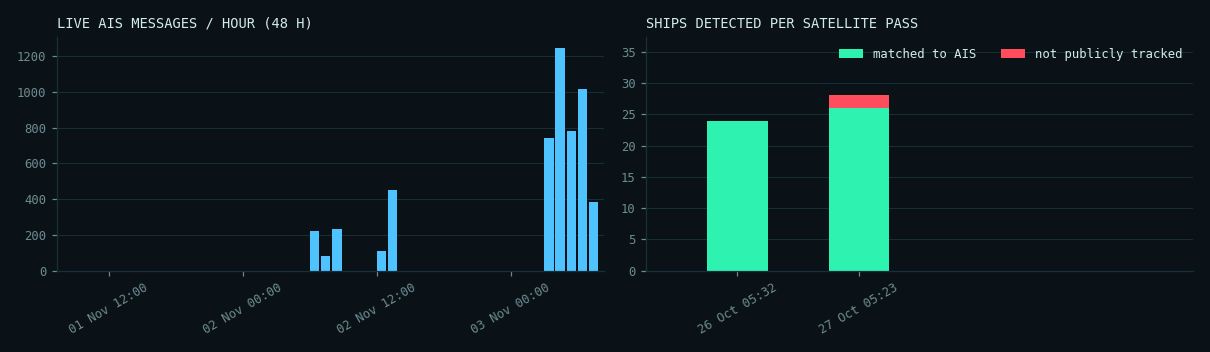
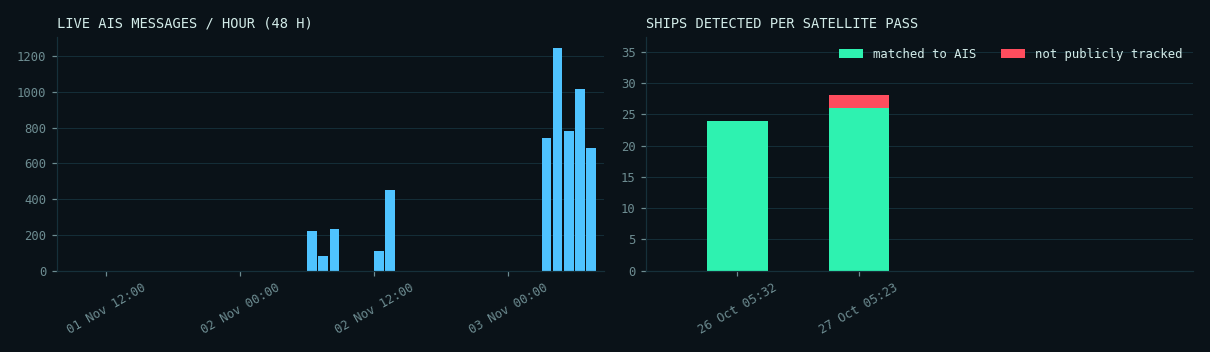
Automatic site update 2026-11-03 07:35 UTC

diff --git a/docs/denmark/index.html b/docs/denmark/index.html
@@ -83,13 +83,13 @@ footer{border-top:1px solid var(--line);padding:18px 0 28px;font:12px/1.6 var(--
   <div><div class="kicker">SAR &times; AIS &middot; MARITIME AWARENESS</div><div class="title">DARK VESSEL <b>DETECTION</b></div></div></a>
  <div class="status"><span class="pill"><span class="dot live"></span>AIS FEED <strong>LIVE</strong></span>
   <span class="pill">UTC <strong id="utc">--:--:--</strong></span>
-  <span class="pill">UPDATED <strong>03 Nov 07:21</strong></span></div>
+  <span class="pill">UPDATED <strong>03 Nov 07:35</strong></span></div>
 </div><nav class="tabs"><a class="" href="../index.html">OVERVIEW</a><a class="" href="../mumbai/index.html">MUMBAI</a><a class="on" href="../denmark/index.html">DENMARK</a><a class="" href="../nn/index.html">NEURAL NET</a><a class="" href="../demo/index.html">SIMULATION</a></nav></div></header>
 <main class="wrap"><div class="coords">SECTOR // DENMARK &middot; 55.55&ndash;55.85&deg;N &middot; 12.55&ndash;12.95&deg;E</div>
 <h1>Oresund, Copenhagen (Denmark/Sweden)</h1>
 <div class="grid">
  <div class="panel"><div class="label">Live AIS feed</div><div class="value small"><span class='ok'>RECEIVING</span></div><div class="muted mono" style="font-size:12px;margin-top:6px">0 min ago</div></div>
- <div class="panel"><div class="label">Ships broadcasting &middot; 30 min</div><div class="value cyan">57</div></div>
+ <div class="panel"><div class="label">Ships broadcasting &middot; 30 min</div><div class="value cyan">61</div></div>
  <div class="panel"><div class="label">Matched &middot; latest pass</div><div class="value ">26</div></div>
  <div class="panel"><div class="label">Not tracked &middot; high confidence</div><div class="value red">0</div></div>
  <div class="panel"><div class="label">Not tracked &middot; low confidence</div><div class="value amber">2</div></div>
@@ -98,7 +98,7 @@ footer{border-top:1px solid var(--line);padding:18px 0 28px;font:12px/1.6 var(--
 <div class="legend"><span><i style="background:var(--green)"></i>matched</span><span><i style="background:var(--red)"></i>not tracked &middot; high</span>
 <span><i style="background:var(--amber)"></i>not tracked &middot; low</span><span><i style="background:var(--cyan)"></i>live AIS</span></div>
 <div id="map" class="map"></div><script>
-const D=[{"lon": 12.574560869565218, "lat": 55.849597826086956, "length_m": 72.681575622935, "score": 0.6554655519501138, "shore_km": 0.14150886088341372, "status": "matched", "reason": "", "confidence": "high", "crop": "", "ship_prob": 0.9335045218467712}, {"lon": 12.704759174311928, "lat": 55.82280412844037, "length_m": 364.1071436957287, "score": 0.9904753373251979, "shore_km": 9.407061429825474, "status": "matched", "reason": "", "confidence": "high", "crop": "", "ship_prob": 0.9868959784507751}, {"lon": 12.786416463414636, "lat": 55.804669512195126, "length_m": 155.0522474362954, "score": 0.9999646038759398, "shore_km": 4.658419014138412, "status": "matched", "reason": "", "confidence": "high", "crop": "", "ship_prob": 0.9993557333946228}, {"lon": 12.88229375, "lat": 55.849146875, "length_m": 53.38783327710226, "score": 0.9899546194309776, "shore_km": 0.9067240720863213, "status": "candidate", "reason": "same_spot_in_another_pass", "confidence": "low", "crop": "crops/S1-Oresund-20261027_37.png", "ship_prob": 0.7905591130256653}, {"lon": 12.604004166666668, "lat": 55.75985, "length_m": 141.84238362073958, "score": 0.6867268898684522, "shore_km": 0.07168283192738693, "status": "matched", "reason": "", "confidence": "high", "crop": "", "ship_prob": 0.5051270127296448}, {"lon": 12.605736764705883, "lat": 55.75241323529412, "length_m": 122.11483240811877, "score": 0.9136889320646264, "shore_km": 0.6454382429486746, "status": "candidate", "reason": "same_spot_in_another_pass", "confidence": "low", "crop": "crops/S1-Oresund-20261027_77.png", "ship_prob": 0.7927113175392151}, {"lon": 12.703722571428573, "lat": 55.77917742857143, "length_m": 223.0817648726515, "score": 0.9996320924909895, "shore_km": 5.943270442766068, "status": "matched", "reason": "", "confidence": "high", "crop": "", "ship_prob": 0.9938097596168518}, {"lon": 12.902757692307693, "lat": 55.75654230769231, "length_m": 65.46226537445588, "score": 0.7187896049600956, "shore_km": 0.03584141596369347, "status": "matched", "reason": "", "confidence": "high", "crop": "", "ship_prob": 0.8691755533218384}, {"lon": 12.589922222222222, "lat": 55.725764814814816, "length_m": 146.45480845096748, "score": 0.9957587025210503, "shore_km": 0.034771280891766385, "status": "matched", "reason": "", "confidence": "high", "crop": "", "ship_prob": 0.9983701109886169}, {"lon": 12.598472047244096, "lat": 55.72077913385827, "length_m": 207.62671185403417, "score": 0.609772230082722, "shore_km": 0.14016751439395445, "status": "matched", "reason": "", "confidence": "high", "crop": "", "ship_prob": 0.6074324250221252}, {"lon": 12.589218, "lat": 55.712854, "length_m": 90.49550243938293, "score": 0.6486089656085543, "shore_km": 0.043464101114707984, "status": "matched", "reason": "", "confidence": "high", "crop": "", "ship_prob": 0.9998902082443237}, {"lon": 12.59024090909091, "lat": 55.71147090909091, "length_m": 162.54265478639104, "score": 1.0, "shore_km": 0.06146752127277559, "status": "matched", "reason": "", "confidence": "high", "crop": "", "ship_prob": 0.9999992847442627}, {"lon": 12.597835937500001, "lat": 55.701648437500005, "length_m": 133.31776511703256, "score": 0.9396217092764791, "shore_km": 0.06789309632894441, "status": "matched", "reason": "", "confidence": "high", "crop": "", "ship_prob": 0.9999727010726929}, {"lon": 12.60914, "lat": 55.69712, "length_m": 65.36743236464424, "score": 0.7827588237578229, "shore_km": 0.03134240904220623, "status": "matched", "reason": "", "confidence": "high", "crop": "", "ship_prob": 0.9867132902145386}, {"lon": 12.668552272727274, "lat": 55.72007840909091, "length_m": 207.26605497726354, "score": 0.6251792307103263, "shore_km": 0.03584141596369347, "status": "matched", "reason": "", "confidence": "high", "crop": "", "ship_prob": 0.9087074398994446}, {"lon": 12.5996, "lat": 55.68885, "length_m": 40.00855981470757, "score": 0.7664068666153926, "shore_km": 0.024587008509110237, "status": "matched", "reason": "", "confidence": "high", "crop": "", "ship_prob": 0.9766618013381958}, {"lon": 12.595819230769232, "lat": 55.67989871794872, "length_m": 127.62371588738732, "score": 0.9426870407335851, "shore_km": 0.05068741655051085, "status": "matched", "reason": "", "confidence": "high", "crop": "", "ship_prob": 0.9998841285705566}, {"lon": 12.594722222222224, "lat": 55.67918888888889, "length_m": 40.64467714079742, "score": 0.7639524834029205, "shore_km": 0.043464101114707984, "status": "matched", "reason": "", "confidence": "high", "crop": "", "ship_prob": 0.9999454021453857}, {"lon": 12.610660714285714, "lat": 55.69618571428572, "length_m": 94.51225356515693, "score": 0.9621795096736379, "shore_km": 0.03134240904220623, "status": "matched", "reason": "", "confidence": "high", "crop": "", "ship_prob": 0.999042809009552}, {"lon": 12.649045000000001, "lat": 55.692155, "length_m": 80.63364746000343, "score": 0.8515033668168979, "shore_km": 0.8863693295037299, "status": "matched", "reason": "", "confidence": "high", "crop": "", "ship_prob": 0.4333752989768982}, {"lon": 12.630751724137932, "lat": 55.685453448275865, "length_m": 125.00287123881988, "score": 0.93629426700422, "shore_km": 0.043464101114707984, "status": "matched", "reason": "", "confidence": "high", "crop": "", "ship_prob": 0.9975905418395996}, {"lon": 12.634987254901962, "lat": 55.677338235294116, "length_m": 276.5478352749318, "score": 0.7686103584091717, "shore_km": 0.024587008509110237, "status": "matched", "reason": "", "confidence": "high", "crop": "", "ship_prob": 0.9729636907577515}, {"lon": 12.68766150442478, "lat": 55.69581814159292, "length_m": 176.8074930452176, "score": 0.923202226335388, "shore_km": 2.6834920471942074, "status": "matched", "reason": "", "confidence": "high", "crop": "", "ship_prob": 0.8427141904830933}, {"lon": 12.65826847826087, "lat": 55.63610108695652, "length_m": 174.21377549767067, "score": 0.9833187000337672, "shore_km": 0.043464101114707984, "status": "matched", "reason": "", "confidence": "high", "crop": "", "ship_prob": 0.9998973608016968}, {"lon": 12.680683333333334, "lat": 55.610910000000004, "length_m": 74.22790892756812, "score": 0.6314184609397504, "shore_km": 0.03134240904220623, "status": "matched", "reason": "", "confidence": "high", "crop": "", "ship_prob": 0.44054293632507324}, {"lon": 12.868352132196163, "lat": 55.60022420042644, "length_m": 299.20726350177785, "score": 0.9999960398718075, "shore_km": 2.8169298200726325, "status": "matched", "reason": "", "confidence": "high", "crop": "", "ship_prob": 0.9967911839485168}, {"lon": 12.680875, "lat": 55.59323, "length_m": 95.51211981545671, "score": 0.7585723176580392, "shore_km": 0.03584141596369347, "status": "matched", "reason": "", "confidence": "high", "crop": "", "ship_prob": 0.797581672668457}, {"lon": 12.706387741935485, "lat": 55.56306903225806, "length_m": 301.4640427512081, "score": 0.9999731380181186, "shore_km": 3.1965238712919084, "status": "matched", "reason": "", "confidence": "high", "crop": "", "ship_prob": 0.9941650032997131}],LIVE=[{"lon": 12.594951666666667, "lat": 55.68244666666667, "sog": 0.0, "age": 27}, {"lon": 12.903493333333333, "lat": 55.756645000000006, "sog": 0.1, "age": 25}, {"lon": 12.665898333333333, "lat": 55.71978, "sog": 0.0, "age": 25}, {"lon": 12.997363333333334, "lat": 55.61365333333333, "sog": 0.0, "age": 24}, {"lon": 12.6761, "lat": 55.593650000000004, "sog": 0.0, "age": 23}, {"lon": 12.663045, "lat": 55.409144999999995, "sog": 10.6, "age": 22}, {"lon": 12.82811, "lat": 55.86155, "sog": 0.0, "age": 18}, {"lon": 12.835139999999999, "lat": 55.85987, "sog": 0.0, "age": 16}, {"lon": 12.488461666666666, "lat": 55.51738666666667, "sog": 0.0, "age": 15}, {"lon": 12.60352, "lat": 55.760601666666666, "sog": 0.0, "age": 14}, {"lon": 12.8329, "lat": 55.85850666666667, "sog": 0.0, "age": 14}, {"lon": 12.676029999999999, "lat": 55.93215333333333, "sog": 0.1, "age": 13}, {"lon": 12.997250000000001, "lat": 55.61376833333334, "sog": 0.0, "age": 13}, {"lon": 12.68041, "lat": 55.611250000000005, "sog": 0.0, "age": 12}, {"lon": 12.988951666666667, "lat": 55.62667, "sog": 0.0, "age": 12}, {"lon": 12.833716666666668, "lat": 55.85573333333333, "sog": 0.0, "age": 12}, {"lon": 12.892159999999999, "lat": 55.52371, "sog": 0.0, "age": 11}, {"lon": 12.831928333333334, "lat": 55.85404166666667, "sog": 0.0, "age": 11}, {"lon": 13.035146666666666, "lat": 55.62470666666666, "sog": 0.1, "age": 10}, {"lon": 12.830416666666668, "lat": 55.85599666666667, "sog": 0.0, "age": 10}, {"lon": 12.696653333333334, "lat": 55.414453333333334, "sog": 9.9, "age": 9}, {"lon": 12.729971666666668, "lat": 55.752015, "sog": 0.1, "age": 8}, {"lon": 12.625296666666666, "lat": 55.691069999999996, "sog": 0.0, "age": 8}, {"lon": 12.647473333333332, "lat": 55.67689166666666, "sog": 0.0, "age": 7}, {"lon": 12.677506666666666, "lat": 55.741838333333334, "sog": 6.9, "age": 7}, {"lon": 12.592985, "lat": 55.679269999999995, "sog": 0.0, "age": 6}, {"lon": 12.679226666666667, "lat": 55.79846833333333, "sog": 6.8, "age": 6}, {"lon": 12.703795000000001, "lat": 55.52666166666667, "sog": 9.1, "age": 6}, {"lon": 12.70041, "lat": 55.59278833333334, "sog": 12.3, "age": 5}, {"lon": 12.680161666666667, "lat": 55.59283666666667, "sog": 1.0, "age": 5}, {"lon": 12.990168333333335, "lat": 55.62689666666667, "sog": 0.0, "age": 5}, {"lon": 12.676883333333334, "lat": 55.59398, "sog": 0.0, "age": 5}, {"lon": 12.646880000000001, "lat": 55.677416666666666, "sog": 0.0, "age": 4}, {"lon": 13.033803333333333, "lat": 55.62457666666667, "sog": 0.0, "age": 3}, {"lon": 12.603505, "lat": 55.76053666666667, "sog": 0.0, "age": 3}, {"lon": 12.826133333333333, "lat": 55.85405, "sog": 2.5, "age": 3}, {"lon": 12.471191666666666, "lat": 55.427753333333335, "sog": 8.2, "age": 3}, {"lon": 12.744406666666666, "lat": 55.99328333333334, "sog": 0.0, "age": 2}, {"lon": 12.828818333333334, "lat": 55.857501666666664, "sog": 1.0, "age": 2}, {"lon": 12.823661666666668, "lat": 55.86637666666666, "sog": 0.1, "age": 2}, {"lon": 12.744443333333333, "lat": 55.99321333333333, "sog": 0.0, "age": 2}, {"lon": 12.677926666666668, "lat": 55.77401, "sog": 8.3, "age": 2}, {"lon": 12.630748333333335, "lat": 55.68984666666667, "sog": 0.0, "age": 2}, {"lon": 12.635413333333334, "lat": 55.67644166666666, "sog": 0.0, "age": 2}, {"lon": 12.501021666666666, "lat": 55.611336666666666, "sog": 0.0, "age": 2}, {"lon": 12.572745, "lat": 55.85085, "sog": 0.0, "age": 1}, {"lon": 12.63411, "lat": 55.675756666666665, "sog": 0.0, "age": 1}, {"lon": 12.825328333333333, "lat": 55.86548333333334, "sog": 0.0, "age": 1}, {"lon": 12.884848333333334, "lat": 55.716215000000005, "sog": 5.3, "age": 1}, {"lon": 12.482761666666667, "lat": 55.60005666666667, "sog": 0.9, "age": 1}, {"lon": 12.593503333333333, "lat": 55.67915833333333, "sog": 0.0, "age": 1}, {"lon": 12.685245, "lat": 55.42541666666667, "sog": 9.0, "age": 0}, {"lon": 12.667135, "lat": 55.718939999999996, "sog": 0.0, "age": 0}, {"lon": 12.830298333333333, "lat": 55.85678166666666, "sog": 0.5, "age": 0}, {"lon": 13.0585, "lat": 55.675668333333334, "sog": 0.0, "age": 0}, {"lon": 12.827605, "lat": 55.86272666666667, "sog": 0.0, "age": 0}, {"lon": 12.680028333333333, "lat": 55.5929, "sog": 0.0, "age": 0}],B=[[55.55,12.55],[55.85,12.95]];const m=L.map('map',{zoomSnap:.25}).fitBounds(B);
+const D=[{"lon": 12.574560869565218, "lat": 55.849597826086956, "length_m": 72.681575622935, "score": 0.6554655519501138, "shore_km": 0.14150886088341372, "status": "matched", "reason": "", "confidence": "high", "crop": "", "ship_prob": 0.9335045218467712}, {"lon": 12.704759174311928, "lat": 55.82280412844037, "length_m": 364.1071436957287, "score": 0.9904753373251979, "shore_km": 9.407061429825474, "status": "matched", "reason": "", "confidence": "high", "crop": "", "ship_prob": 0.9868959784507751}, {"lon": 12.786416463414636, "lat": 55.804669512195126, "length_m": 155.0522474362954, "score": 0.9999646038759398, "shore_km": 4.658419014138412, "status": "matched", "reason": "", "confidence": "high", "crop": "", "ship_prob": 0.9993557333946228}, {"lon": 12.88229375, "lat": 55.849146875, "length_m": 53.38783327710226, "score": 0.9899546194309776, "shore_km": 0.9067240720863213, "status": "candidate", "reason": "same_spot_in_another_pass", "confidence": "low", "crop": "crops/S1-Oresund-20261027_37.png", "ship_prob": 0.7905591130256653}, {"lon": 12.604004166666668, "lat": 55.75985, "length_m": 141.84238362073958, "score": 0.6867268898684522, "shore_km": 0.07168283192738693, "status": "matched", "reason": "", "confidence": "high", "crop": "", "ship_prob": 0.5051270127296448}, {"lon": 12.605736764705883, "lat": 55.75241323529412, "length_m": 122.11483240811877, "score": 0.9136889320646264, "shore_km": 0.6454382429486746, "status": "candidate", "reason": "same_spot_in_another_pass", "confidence": "low", "crop": "crops/S1-Oresund-20261027_77.png", "ship_prob": 0.7927113175392151}, {"lon": 12.703722571428573, "lat": 55.77917742857143, "length_m": 223.0817648726515, "score": 0.9996320924909895, "shore_km": 5.943270442766068, "status": "matched", "reason": "", "confidence": "high", "crop": "", "ship_prob": 0.9938097596168518}, {"lon": 12.902757692307693, "lat": 55.75654230769231, "length_m": 65.46226537445588, "score": 0.7187896049600956, "shore_km": 0.03584141596369347, "status": "matched", "reason": "", "confidence": "high", "crop": "", "ship_prob": 0.8691755533218384}, {"lon": 12.589922222222222, "lat": 55.725764814814816, "length_m": 146.45480845096748, "score": 0.9957587025210503, "shore_km": 0.034771280891766385, "status": "matched", "reason": "", "confidence": "high", "crop": "", "ship_prob": 0.9983701109886169}, {"lon": 12.598472047244096, "lat": 55.72077913385827, "length_m": 207.62671185403417, "score": 0.609772230082722, "shore_km": 0.14016751439395445, "status": "matched", "reason": "", "confidence": "high", "crop": "", "ship_prob": 0.6074324250221252}, {"lon": 12.589218, "lat": 55.712854, "length_m": 90.49550243938293, "score": 0.6486089656085543, "shore_km": 0.043464101114707984, "status": "matched", "reason": "", "confidence": "high", "crop": "", "ship_prob": 0.9998902082443237}, {"lon": 12.59024090909091, "lat": 55.71147090909091, "length_m": 162.54265478639104, "score": 1.0, "shore_km": 0.06146752127277559, "status": "matched", "reason": "", "confidence": "high", "crop": "", "ship_prob": 0.9999992847442627}, {"lon": 12.597835937500001, "lat": 55.701648437500005, "length_m": 133.31776511703256, "score": 0.9396217092764791, "shore_km": 0.06789309632894441, "status": "matched", "reason": "", "confidence": "high", "crop": "", "ship_prob": 0.9999727010726929}, {"lon": 12.60914, "lat": 55.69712, "length_m": 65.36743236464424, "score": 0.7827588237578229, "shore_km": 0.03134240904220623, "status": "matched", "reason": "", "confidence": "high", "crop": "", "ship_prob": 0.9867132902145386}, {"lon": 12.668552272727274, "lat": 55.72007840909091, "length_m": 207.26605497726354, "score": 0.6251792307103263, "shore_km": 0.03584141596369347, "status": "matched", "reason": "", "confidence": "high", "crop": "", "ship_prob": 0.9087074398994446}, {"lon": 12.5996, "lat": 55.68885, "length_m": 40.00855981470757, "score": 0.7664068666153926, "shore_km": 0.024587008509110237, "status": "matched", "reason": "", "confidence": "high", "crop": "", "ship_prob": 0.9766618013381958}, {"lon": 12.595819230769232, "lat": 55.67989871794872, "length_m": 127.62371588738732, "score": 0.9426870407335851, "shore_km": 0.05068741655051085, "status": "matched", "reason": "", "confidence": "high", "crop": "", "ship_prob": 0.9998841285705566}, {"lon": 12.594722222222224, "lat": 55.67918888888889, "length_m": 40.64467714079742, "score": 0.7639524834029205, "shore_km": 0.043464101114707984, "status": "matched", "reason": "", "confidence": "high", "crop": "", "ship_prob": 0.9999454021453857}, {"lon": 12.610660714285714, "lat": 55.69618571428572, "length_m": 94.51225356515693, "score": 0.9621795096736379, "shore_km": 0.03134240904220623, "status": "matched", "reason": "", "confidence": "high", "crop": "", "ship_prob": 0.999042809009552}, {"lon": 12.649045000000001, "lat": 55.692155, "length_m": 80.63364746000343, "score": 0.8515033668168979, "shore_km": 0.8863693295037299, "status": "matched", "reason": "", "confidence": "high", "crop": "", "ship_prob": 0.4333752989768982}, {"lon": 12.630751724137932, "lat": 55.685453448275865, "length_m": 125.00287123881988, "score": 0.93629426700422, "shore_km": 0.043464101114707984, "status": "matched", "reason": "", "confidence": "high", "crop": "", "ship_prob": 0.9975905418395996}, {"lon": 12.634987254901962, "lat": 55.677338235294116, "length_m": 276.5478352749318, "score": 0.7686103584091717, "shore_km": 0.024587008509110237, "status": "matched", "reason": "", "confidence": "high", "crop": "", "ship_prob": 0.9729636907577515}, {"lon": 12.68766150442478, "lat": 55.69581814159292, "length_m": 176.8074930452176, "score": 0.923202226335388, "shore_km": 2.6834920471942074, "status": "matched", "reason": "", "confidence": "high", "crop": "", "ship_prob": 0.8427141904830933}, {"lon": 12.65826847826087, "lat": 55.63610108695652, "length_m": 174.21377549767067, "score": 0.9833187000337672, "shore_km": 0.043464101114707984, "status": "matched", "reason": "", "confidence": "high", "crop": "", "ship_prob": 0.9998973608016968}, {"lon": 12.680683333333334, "lat": 55.610910000000004, "length_m": 74.22790892756812, "score": 0.6314184609397504, "shore_km": 0.03134240904220623, "status": "matched", "reason": "", "confidence": "high", "crop": "", "ship_prob": 0.44054293632507324}, {"lon": 12.868352132196163, "lat": 55.60022420042644, "length_m": 299.20726350177785, "score": 0.9999960398718075, "shore_km": 2.8169298200726325, "status": "matched", "reason": "", "confidence": "high", "crop": "", "ship_prob": 0.9967911839485168}, {"lon": 12.680875, "lat": 55.59323, "length_m": 95.51211981545671, "score": 0.7585723176580392, "shore_km": 0.03584141596369347, "status": "matched", "reason": "", "confidence": "high", "crop": "", "ship_prob": 0.797581672668457}, {"lon": 12.706387741935485, "lat": 55.56306903225806, "length_m": 301.4640427512081, "score": 0.9999731380181186, "shore_km": 3.1965238712919084, "status": "matched", "reason": "", "confidence": "high", "crop": "", "ship_prob": 0.9941650032997131}],LIVE=[{"lon": 12.835139999999999, "lat": 55.85987, "sog": 0.0, "age": 29}, {"lon": 12.488461666666666, "lat": 55.51738666666667, "sog": 0.0, "age": 28}, {"lon": 12.8329, "lat": 55.85850666666667, "sog": 0.0, "age": 28}, {"lon": 12.676029999999999, "lat": 55.93215333333333, "sog": 0.1, "age": 27}, {"lon": 12.988951666666667, "lat": 55.62667, "sog": 0.0, "age": 26}, {"lon": 13.035146666666666, "lat": 55.62470666666666, "sog": 0.1, "age": 24}, {"lon": 12.680161666666667, "lat": 55.59283666666667, "sog": 1.0, "age": 19}, {"lon": 12.827605, "lat": 55.86272666666667, "sog": 0.0, "age": 14}, {"lon": 12.680028333333333, "lat": 55.5929, "sog": 0.0, "age": 14}, {"lon": 12.680431666666667, "lat": 55.611248333333336, "sog": 0.0, "age": 14}, {"lon": 12.730086666666667, "lat": 55.752105, "sog": 0.0, "age": 13}, {"lon": 12.665865, "lat": 55.71980666666666, "sog": 0.1, "age": 12}, {"lon": 12.833733333333333, "lat": 55.85574999999999, "sog": 0.1, "age": 10}, {"lon": 12.646891666666667, "lat": 55.67740166666667, "sog": 0.0, "age": 9}, {"lon": 12.593506666666666, "lat": 55.679165, "sog": 0.0, "age": 9}, {"lon": 12.594951666666667, "lat": 55.68243, "sog": 0.0, "age": 9}, {"lon": 12.625308333333333, "lat": 55.69105833333333, "sog": 0.0, "age": 9}, {"lon": 12.83043, "lat": 55.85601333333333, "sog": 0.0, "age": 8}, {"lon": 12.599016666666667, "lat": 55.68904, "sog": 0.0, "age": 8}, {"lon": 12.60352, "lat": 55.76058833333333, "sog": 0.0, "age": 7}, {"lon": 12.635413333333334, "lat": 55.67644833333333, "sog": 0.0, "age": 7}, {"lon": 12.990161666666667, "lat": 55.626893333333335, "sog": 0.0, "age": 7}, {"lon": 13.033331666666667, "lat": 55.624476666666666, "sog": 0.0, "age": 7}, {"lon": 12.630741666666667, "lat": 55.689856666666664, "sog": 0.0, "age": 7}, {"lon": 12.997246666666666, "lat": 55.61377, "sog": 0.1, "age": 7}, {"lon": 12.572725, "lat": 55.850858333333335, "sog": 0.0, "age": 6}, {"lon": 12.63412, "lat": 55.67577000000001, "sog": 0.0, "age": 6}, {"lon": 12.830781666666667, "lat": 55.856568333333335, "sog": 0.2, "age": 6}, {"lon": 12.744438333333333, "lat": 55.99321333333333, "sog": 0.0, "age": 6}, {"lon": 12.676096666666666, "lat": 55.75125666666667, "sog": 8.2, "age": 6}, {"lon": 12.833333333333334, "lat": 55.855850000000004, "sog": 0.0, "age": 5}, {"lon": 12.690241666666667, "lat": 55.48379, "sog": 11.4, "age": 5}, {"lon": 12.677436666666667, "lat": 55.77124, "sog": 6.1, "age": 5}, {"lon": 12.827968333333333, "lat": 55.861435, "sog": 0.0, "age": 5}, {"lon": 12.562923333333334, "lat": 55.40116833333333, "sog": 4.9, "age": 4}, {"lon": 12.831928333333334, "lat": 55.85404333333334, "sog": 0.0, "age": 4}, {"lon": 12.831335, "lat": 55.856265, "sog": 0.0, "age": 4}, {"lon": 12.468265, "lat": 55.45670500000001, "sog": 7.8, "age": 4}, {"lon": 12.647465, "lat": 55.67689, "sog": 0.0, "age": 4}, {"lon": 12.695671666666668, "lat": 55.45901, "sog": 11.8, "age": 3}, {"lon": 12.67205, "lat": 55.96465, "sog": 16.0, "age": 3}, {"lon": 13.058486666666665, "lat": 55.67566333333333, "sog": 0.0, "age": 3}, {"lon": 13.033801666666667, "lat": 55.62456833333333, "sog": 0.0, "age": 3}, {"lon": 12.714883333333335, "lat": 55.47074, "sog": 10.1, "age": 2}, {"lon": 12.744416666666666, "lat": 55.9933, "sog": 0.0, "age": 2}, {"lon": 12.603475, "lat": 55.760511666666666, "sog": 0.0, "age": 2}, {"lon": 12.667258333333333, "lat": 55.71894833333333, "sog": 0.1, "age": 2}, {"lon": 12.82361, "lat": 55.86642666666667, "sog": 0.0, "age": 1}, {"lon": 12.997346666666665, "lat": 55.613665, "sog": 0.1, "age": 1}, {"lon": 12.865193333333334, "lat": 55.73328166666667, "sog": 5.3, "age": 1}, {"lon": 12.501023333333334, "lat": 55.611336666666666, "sog": 0.0, "age": 1}, {"lon": 12.693258333333334, "lat": 55.656866666666666, "sog": 12.5, "age": 0}, {"lon": 12.680530000000001, "lat": 55.70122666666667, "sog": 6.7, "age": 0}, {"lon": 12.676855, "lat": 55.59395166666666, "sog": 0.0, "age": 0}, {"lon": 12.481878333333333, "lat": 55.60047333333333, "sog": 0.0, "age": 0}, {"lon": 12.892178333333334, "lat": 55.523720000000004, "sog": 0.0, "age": 0}, {"lon": 12.592983333333333, "lat": 55.67928, "sog": 0.0, "age": 0}, {"lon": 12.82485, "lat": 55.86593333333334, "sog": 0.0, "age": 0}, {"lon": 12.903498333333333, "lat": 55.75664166666666, "sog": 0.1, "age": 0}, {"lon": 12.701408333333335, "lat": 55.44254166666666, "sog": 9.8, "age": 0}, {"lon": 12.776235000000002, "lat": 55.87990833333333, "sog": 9.1, "age": 0}],B=[[55.55,12.55],[55.85,12.95]];const m=L.map('map',{zoomSnap:.25}).fitBounds(B);
 // re-fit once layout has settled: if the container had no size when the map was created, Leaflet falls back to zoom 0
 const refit=()=>{m.invalidateSize();m.fitBounds(B);};setTimeout(refit,0);window.addEventListener('load',refit);
 // standard OSM tiles (no API key), turned into a dark "radar console" basemap with a CSS filter (.radar-tiles)
@@ -116,8 +116,8 @@ L.control.layers(null,{'Radar detections (selected pass)':det,'Live AIS, last 30
 </script>
 <h2>Pass log</h2><div class='tablewrap'><table><thead><tr><th>pass (UTC)</th><th>ships</th><th>matched</th><th>not tracked</th><th>low conf.</th><th>match rate</th><th>AIS msgs</th></tr></thead><tbody><tr><td>2026-10-27 05:23 UTC</td><td>28</td><td class='ok'>26</td><td class='bad'>0</td><td style='color:var(--amber)'>2</td><td>93%</td><td>10687</td></tr><tr><td>2026-10-26 05:32 UTC</td><td>24</td><td class='ok'>24</td><td class='bad'>0</td><td style='color:var(--amber)'>0</td><td>100%</td><td>11603</td></tr></tbody></table></div>
 <h2>Telemetry</h2><img class="chart" src="charts.png" alt="AIS messages per hour and ships detected per pass">
-<ul class="acq" style="margin-top:10px"><li>AIS MSG / H &middot; 1152</li><li>FEED GAPS 24 H &middot; 15
-(1184 min)</li></ul>
+<ul class="acq" style="margin-top:10px"><li>AIS MSG / H &middot; 1204</li><li>FEED GAPS 24 H &middot; 15
+(1170 min)</li></ul>
 <h2>Sentinel-1 acquisitions &middot; 14 days</h2><ul class="acq"><li>2026-11-02 05:23 UTC</li><li>2026-11-01 16:44 UTC</li><li>2026-11-01 05:31 UTC</li><li>2026-10-31 16:52 UTC</li><li>2026-10-30 17:00 UTC</li><li>2026-10-27 05:23 UTC</li><li>2026-10-26 05:32 UTC</li><li>2026-10-25 16:52 UTC</li></ul></main>
 <footer><div class="wrap">Contains modified Copernicus Sentinel data 2026 &middot; AIS: aisstream.io, Danish Maritime Authority &middot;
 &copy; OpenStreetMap contributors</div></footer>

diff --git a/docs/index.html b/docs/index.html
@@ -83,13 +83,13 @@ footer{border-top:1px solid var(--line);padding:18px 0 28px;font:12px/1.6 var(--
   <div><div class="kicker">SAR &times; AIS &middot; MARITIME AWARENESS</div><div class="title">DARK VESSEL <b>DETECTION</b></div></div></a>
  <div class="status"><span class="pill"><span class="dot live"></span>AIS FEED <strong>LIVE</strong></span>
   <span class="pill">UTC <strong id="utc">--:--:--</strong></span>
-  <span class="pill">UPDATED <strong>03 Nov 07:21</strong></span></div>
+  <span class="pill">UPDATED <strong>03 Nov 07:35</strong></span></div>
 </div><nav class="tabs"><a class="on" href="index.html">OVERVIEW</a><a class="" href="mumbai/index.html">MUMBAI</a><a class="" href="denmark/index.html">DENMARK</a><a class="" href="nn/index.html">NEURAL NET</a><a class="" href="demo/index.html">SIMULATION</a></nav></div></header>
 <main class="wrap"><div class="coords">SYSTEM OVERVIEW</div>
 <h1>Ships the radar sees that nobody is tracking</h1>
 <div class="grid" style="margin-top:18px"><div class="panel"><div class="label">Satellite passes processed</div><div class="value ">3</div></div><div class="panel"><div class="label">Ships matched to AIS</div><div class="value ">50</div></div>
 <div class="panel"><div class="label">Not tracked &middot; high confidence</div><div class="value red">0</div></div><div class="panel"><div class="label">Not tracked &middot; low confidence</div><div class="value amber">117</div></div>
-<div class="panel"><div class="label">Broadcasting now &middot; 30 min</div><div class="value cyan">57</div></div></div>
+<div class="panel"><div class="label">Broadcasting now &middot; 30 min</div><div class="value cyan">61</div></div></div>
 <h2>Pipeline</h2><div class="flow"><div class="step"><div class="n">01</div><div class="t">Radar image</div><div class="d">Sentinel-1 SAR &middot; VH &middot; 10 m</div></div><div class="step"><div class="n">02</div><div class="t">Propose</div><div class="d">CFAR &middot; 5.5 &times; local sea</div></div><a class="step nn" href="nn/index.html"><div class="n">03 &middot; NEURAL NETWORK</div><div class="t">ShipCNN</div><div class="d">CNN &middot; P(ship)</div></a><div class="step"><div class="n">04</div><div class="t">Align AIS</div><div class="d">Dead reckoning &middot; &plusmn; 30 min</div></div><div class="step"><div class="n">05</div><div class="t">Match</div><div class="d">Hungarian &middot; speed-aware gate</div></div><div class="step"><div class="n">06</div><div class="t">Flag</div><div class="d">High / low confidence</div></div></div>
 <h2>System</h2><ul class="acq"><li>RECORDER &middot; LIVE</li><li>PASS SWEEP &middot; EVERY 15 MIN</li><li>COVERAGE &ge; 65%</li><li>SHIPCNN &middot; THRESHOLD 0.69</li></ul>
 <h2>Sectors</h2><div class="grid"><a class="panel region" href="mumbai/index.html"><div class="label">Sector // MUMBAI</div>
@@ -105,10 +105,10 @@ footer{border-top:1px solid var(--line);padding:18px 0 28px;font:12px/1.6 var(--
 <div class="kv"><span>ships matched to AIS</span><span class="ok">50</span></div>
 <div class="kv"><span>not tracked, high confidence</span><span class="bad">0</span></div>
 <div class="kv"><span>not tracked, low confidence</span><span style="color:var(--amber)">2</span></div>
-<div class="kv"><span>broadcasting now (30 min)</span><span style="color:var(--cyan)">57</span></div>
+<div class="kv"><span>broadcasting now (30 min)</span><span style="color:var(--cyan)">61</span></div>
 <div class="go">OPEN SECTOR &rarr;</div></a></div>
 <h2>Run log</h2>
-<div class="tablewrap"><table><thead><tr><th>run (UTC)</th><th>mumbai live</th><th>mumbai msg/h</th><th>denmark live</th><th>denmark msg/h</th></tr></thead><tbody><tr><td>2026-11-03 07:21</td><td>0</td><td>0</td><td>57</td><td>1152</td></tr><tr><td>2026-11-03 07:20</td><td>0</td><td>0</td><td>57</td><td>1158</td></tr><tr><td>2026-11-03 07:20</td><td>0</td><td>0</td><td>58</td><td>1154</td></tr><tr><td>2026-11-03 07:06</td><td>0</td><td>0</td><td>56</td><td>1126</td></tr><tr><td>2026-11-03 07:05</td><td>0</td><td>0</td><td>56</td><td>1084</td></tr><tr><td>2026-11-03 06:51</td><td>0</td><td>0</td><td>56</td><td>848</td></tr><tr><td>2026-11-03 06:49</td><td>0</td><td>0</td><td>55</td><td>824</td></tr><tr><td>2026-11-03 06:35</td><td>0</td><td>0</td><td>58</td><td>800</td></tr><tr><td>2026-11-03 06:34</td><td>0</td><td>0</td><td>58</td><td>816</td></tr><tr><td>2026-11-03 06:20</td><td>0</td><td>0</td><td>51</td><td>876</td></tr><tr><td>2026-11-03 06:19</td><td>0</td><td>0</td><td>47</td><td>866</td></tr><tr><td>2026-11-03 05:46</td><td>0</td><td>0</td><td>62</td><td>986</td></tr><tr><td>2026-11-03 05:44</td><td>0</td><td>0</td><td>62</td><td>992</td></tr><tr><td>2026-11-03 05:30</td><td>0</td><td>0</td><td>57</td><td>972</td></tr><tr><td>2026-11-03 05:29</td><td>0</td><td>0</td><td>57</td><td>970</td></tr><tr><td>2026-11-03 05:14</td><td>0</td><td>0</td><td>50</td><td>1000</td></tr><tr><td>2026-11-03 05:13</td><td>0</td><td>0</td><td>50</td><td>1026</td></tr><tr><td>2026-11-03 04:59</td><td>0</td><td>0</td><td>58</td><td>1250</td></tr><tr><td>2026-11-03 04:58</td><td>0</td><td>0</td><td>59</td><td>1250</td></tr><tr><td>2026-11-03 04:44</td><td>0</td><td>0</td><td>60</td><td>1240</td></tr><tr><td>2026-11-03 04:42</td><td>0</td><td>0</td><td>59</td><td>1248</td></tr><tr><td>2026-11-03 04:28</td><td>0</td><td>0</td><td>58</td><td>1242</td></tr><tr><td>2026-11-03 04:27</td><td>0</td><td>0</td><td>57</td><td>1240</td></tr><tr><td>2026-11-03 04:12</td><td>0</td><td>0</td><td>56</td><td>994</td></tr></tbody></table></div></main>
+<div class="tablewrap"><table><thead><tr><th>run (UTC)</th><th>mumbai live</th><th>mumbai msg/h</th><th>denmark live</th><th>denmark msg/h</th></tr></thead><tbody><tr><td>2026-11-03 07:35</td><td>0</td><td>0</td><td>61</td><td>1204</td></tr><tr><td>2026-11-03 07:21</td><td>0</td><td>0</td><td>57</td><td>1152</td></tr><tr><td>2026-11-03 07:20</td><td>0</td><td>0</td><td>57</td><td>1158</td></tr><tr><td>2026-11-03 07:20</td><td>0</td><td>0</td><td>58</td><td>1154</td></tr><tr><td>2026-11-03 07:06</td><td>0</td><td>0</td><td>56</td><td>1126</td></tr><tr><td>2026-11-03 07:05</td><td>0</td><td>0</td><td>56</td><td>1084</td></tr><tr><td>2026-11-03 06:51</td><td>0</td><td>0</td><td>56</td><td>848</td></tr><tr><td>2026-11-03 06:49</td><td>0</td><td>0</td><td>55</td><td>824</td></tr><tr><td>2026-11-03 06:35</td><td>0</td><td>0</td><td>58</td><td>800</td></tr><tr><td>2026-11-03 06:34</td><td>0</td><td>0</td><td>58</td><td>816</td></tr><tr><td>2026-11-03 06:20</td><td>0</td><td>0</td><td>51</td><td>876</td></tr><tr><td>2026-11-03 06:19</td><td>0</td><td>0</td><td>47</td><td>866</td></tr><tr><td>2026-11-03 05:46</td><td>0</td><td>0</td><td>62</td><td>986</td></tr><tr><td>2026-11-03 05:44</td><td>0</td><td>0</td><td>62</td><td>992</td></tr><tr><td>2026-11-03 05:30</td><td>0</td><td>0</td><td>57</td><td>972</td></tr><tr><td>2026-11-03 05:29</td><td>0</td><td>0</td><td>57</td><td>970</td></tr><tr><td>2026-11-03 05:14</td><td>0</td><td>0</td><td>50</td><td>1000</td></tr><tr><td>2026-11-03 05:13</td><td>0</td><td>0</td><td>50</td><td>1026</td></tr><tr><td>2026-11-03 04:59</td><td>0</td><td>0</td><td>58</td><td>1250</td></tr><tr><td>2026-11-03 04:58</td><td>0</td><td>0</td><td>59</td><td>1250</td></tr><tr><td>2026-11-03 04:44</td><td>0</td><td>0</td><td>60</td><td>1240</td></tr><tr><td>2026-11-03 04:42</td><td>0</td><td>0</td><td>59</td><td>1248</td></tr><tr><td>2026-11-03 04:28</td><td>0</td><td>0</td><td>58</td><td>1242</td></tr><tr><td>2026-11-03 04:27</td><td>0</td><td>0</td><td>57</td><td>1240</td></tr></tbody></table></div></main>
 <footer><div class="wrap">Contains modified Copernicus Sentinel data 2026 &middot; AIS: aisstream.io, Danish Maritime Authority &middot;
 &copy; OpenStreetMap contributors</div></footer>
 <script>(function(){const e=document.getElementById('utc');const t=()=>e.textContent=new Date().toISOString().slice(11,19);t();setInterval(t,1000);})();</script>

diff --git a/docs/mumbai/index.html b/docs/mumbai/index.html
@@ -83,7 +83,7 @@ footer{border-top:1px solid var(--line);padding:18px 0 28px;font:12px/1.6 var(--
   <div><div class="kicker">SAR &times; AIS &middot; MARITIME AWARENESS</div><div class="title">DARK VESSEL <b>DETECTION</b></div></div></a>
  <div class="status"><span class="pill"><span class="dot live"></span>AIS FEED <strong>LIVE</strong></span>
   <span class="pill">UTC <strong id="utc">--:--:--</strong></span>
-  <span class="pill">UPDATED <strong>03 Nov 07:21</strong></span></div>
+  <span class="pill">UPDATED <strong>03 Nov 07:35</strong></span></div>
 </div><nav class="tabs"><a class="" href="../index.html">OVERVIEW</a><a class="on" href="../mumbai/index.html">MUMBAI</a><a class="" href="../denmark/index.html">DENMARK</a><a class="" href="../nn/index.html">NEURAL NET</a><a class="" href="../demo/index.html">SIMULATION</a></nav></div></header>
 <main class="wrap"><div class="coords">SECTOR // MUMBAI &middot; 18.80&ndash;19.10&deg;N &middot; 72.55&ndash;72.95&deg;E</div>
 <h1>Mumbai coast and harbour, India</h1>
@@ -117,7 +117,7 @@ L.control.layers(null,{'Radar detections (selected pass)':det,'Live AIS, last 30
 <h2>Pass log</h2><div class='tablewrap'><table><thead><tr><th>pass (UTC)</th><th>ships</th><th>matched</th><th>not tracked</th><th>low conf.</th><th>match rate</th><th>AIS msgs</th></tr></thead><tbody><tr><td>2026-10-24 01:02 UTC</td><td>115</td><td class='ok'>0</td><td class='bad'>0</td><td style='color:var(--amber)'>115</td><td>0%</td><td>0</td></tr></tbody></table></div>
 <h2>Telemetry</h2><img class="chart" src="charts.png" alt="AIS messages per hour and ships detected per pass">
 <ul class="acq" style="margin-top:10px"><li>AIS MSG / H &middot; 0</li><li>FEED GAPS 24 H &middot; 15
-(1184 min)</li></ul>
+(1170 min)</li></ul>
 <h2>Sentinel-1 acquisitions &middot; 14 days</h2><ul class="acq"><li>2026-10-24 01:02 UTC</li></ul></main>
 <footer><div class="wrap">Contains modified Copernicus Sentinel data 2026 &middot; AIS: aisstream.io, Danish Maritime Authority &middot;
 &copy; OpenStreetMap contributors</div></footer>

diff --git a/docs/demo/index.html b/docs/demo/index.html
@@ -83,7 +83,7 @@ footer{border-top:1px solid var(--line);padding:18px 0 28px;font:12px/1.6 var(--
   <div><div class="kicker">SAR &times; AIS &middot; MARITIME AWARENESS</div><div class="title">DARK VESSEL <b>DETECTION</b></div></div></a>
  <div class="status"><span class="pill"><span class="dot live"></span>AIS FEED <strong>LIVE</strong></span>
   <span class="pill">UTC <strong id="utc">--:--:--</strong></span>
-  <span class="pill">UPDATED <strong>03 Nov 07:21</strong></span></div>
+  <span class="pill">UPDATED <strong>03 Nov 07:35</strong></span></div>
 </div><nav class="tabs"><a class="" href="../index.html">OVERVIEW</a><a class="" href="../mumbai/index.html">MUMBAI</a><a class="" href="../denmark/index.html">DENMARK</a><a class="" href="../nn/index.html">NEURAL NET</a><a class="on" href="../demo/index.html">SIMULATION</a></nav></div></header>
 <main class="wrap"><div class="coords">SIMULATION // SYNTHETIC SCENES WITH KNOWN GROUND TRUTH</div>
 <h1>Simulation</h1>

diff --git a/docs/nn/index.html b/docs/nn/index.html
@@ -83,7 +83,7 @@ footer{border-top:1px solid var(--line);padding:18px 0 28px;font:12px/1.6 var(--
   <div><div class="kicker">SAR &times; AIS &middot; MARITIME AWARENESS</div><div class="title">DARK VESSEL <b>DETECTION</b></div></div></a>
  <div class="status"><span class="pill"><span class="dot live"></span>AIS FEED <strong>LIVE</strong></span>
   <span class="pill">UTC <strong id="utc">--:--:--</strong></span>
-  <span class="pill">UPDATED <strong>03 Nov 07:21</strong></span></div>
+  <span class="pill">UPDATED <strong>03 Nov 07:35</strong></span></div>
 </div><nav class="tabs"><a class="" href="../index.html">OVERVIEW</a><a class="" href="../mumbai/index.html">MUMBAI</a><a class="" href="../denmark/index.html">DENMARK</a><a class="on" href="../nn/index.html">NEURAL NET</a><a class="" href="../demo/index.html">SIMULATION</a></nav></div></header>
 <main class="wrap"><div class="coords">NEURAL NETWORK // SHIPCNN</div>
 <h1>ShipCNN</h1>
